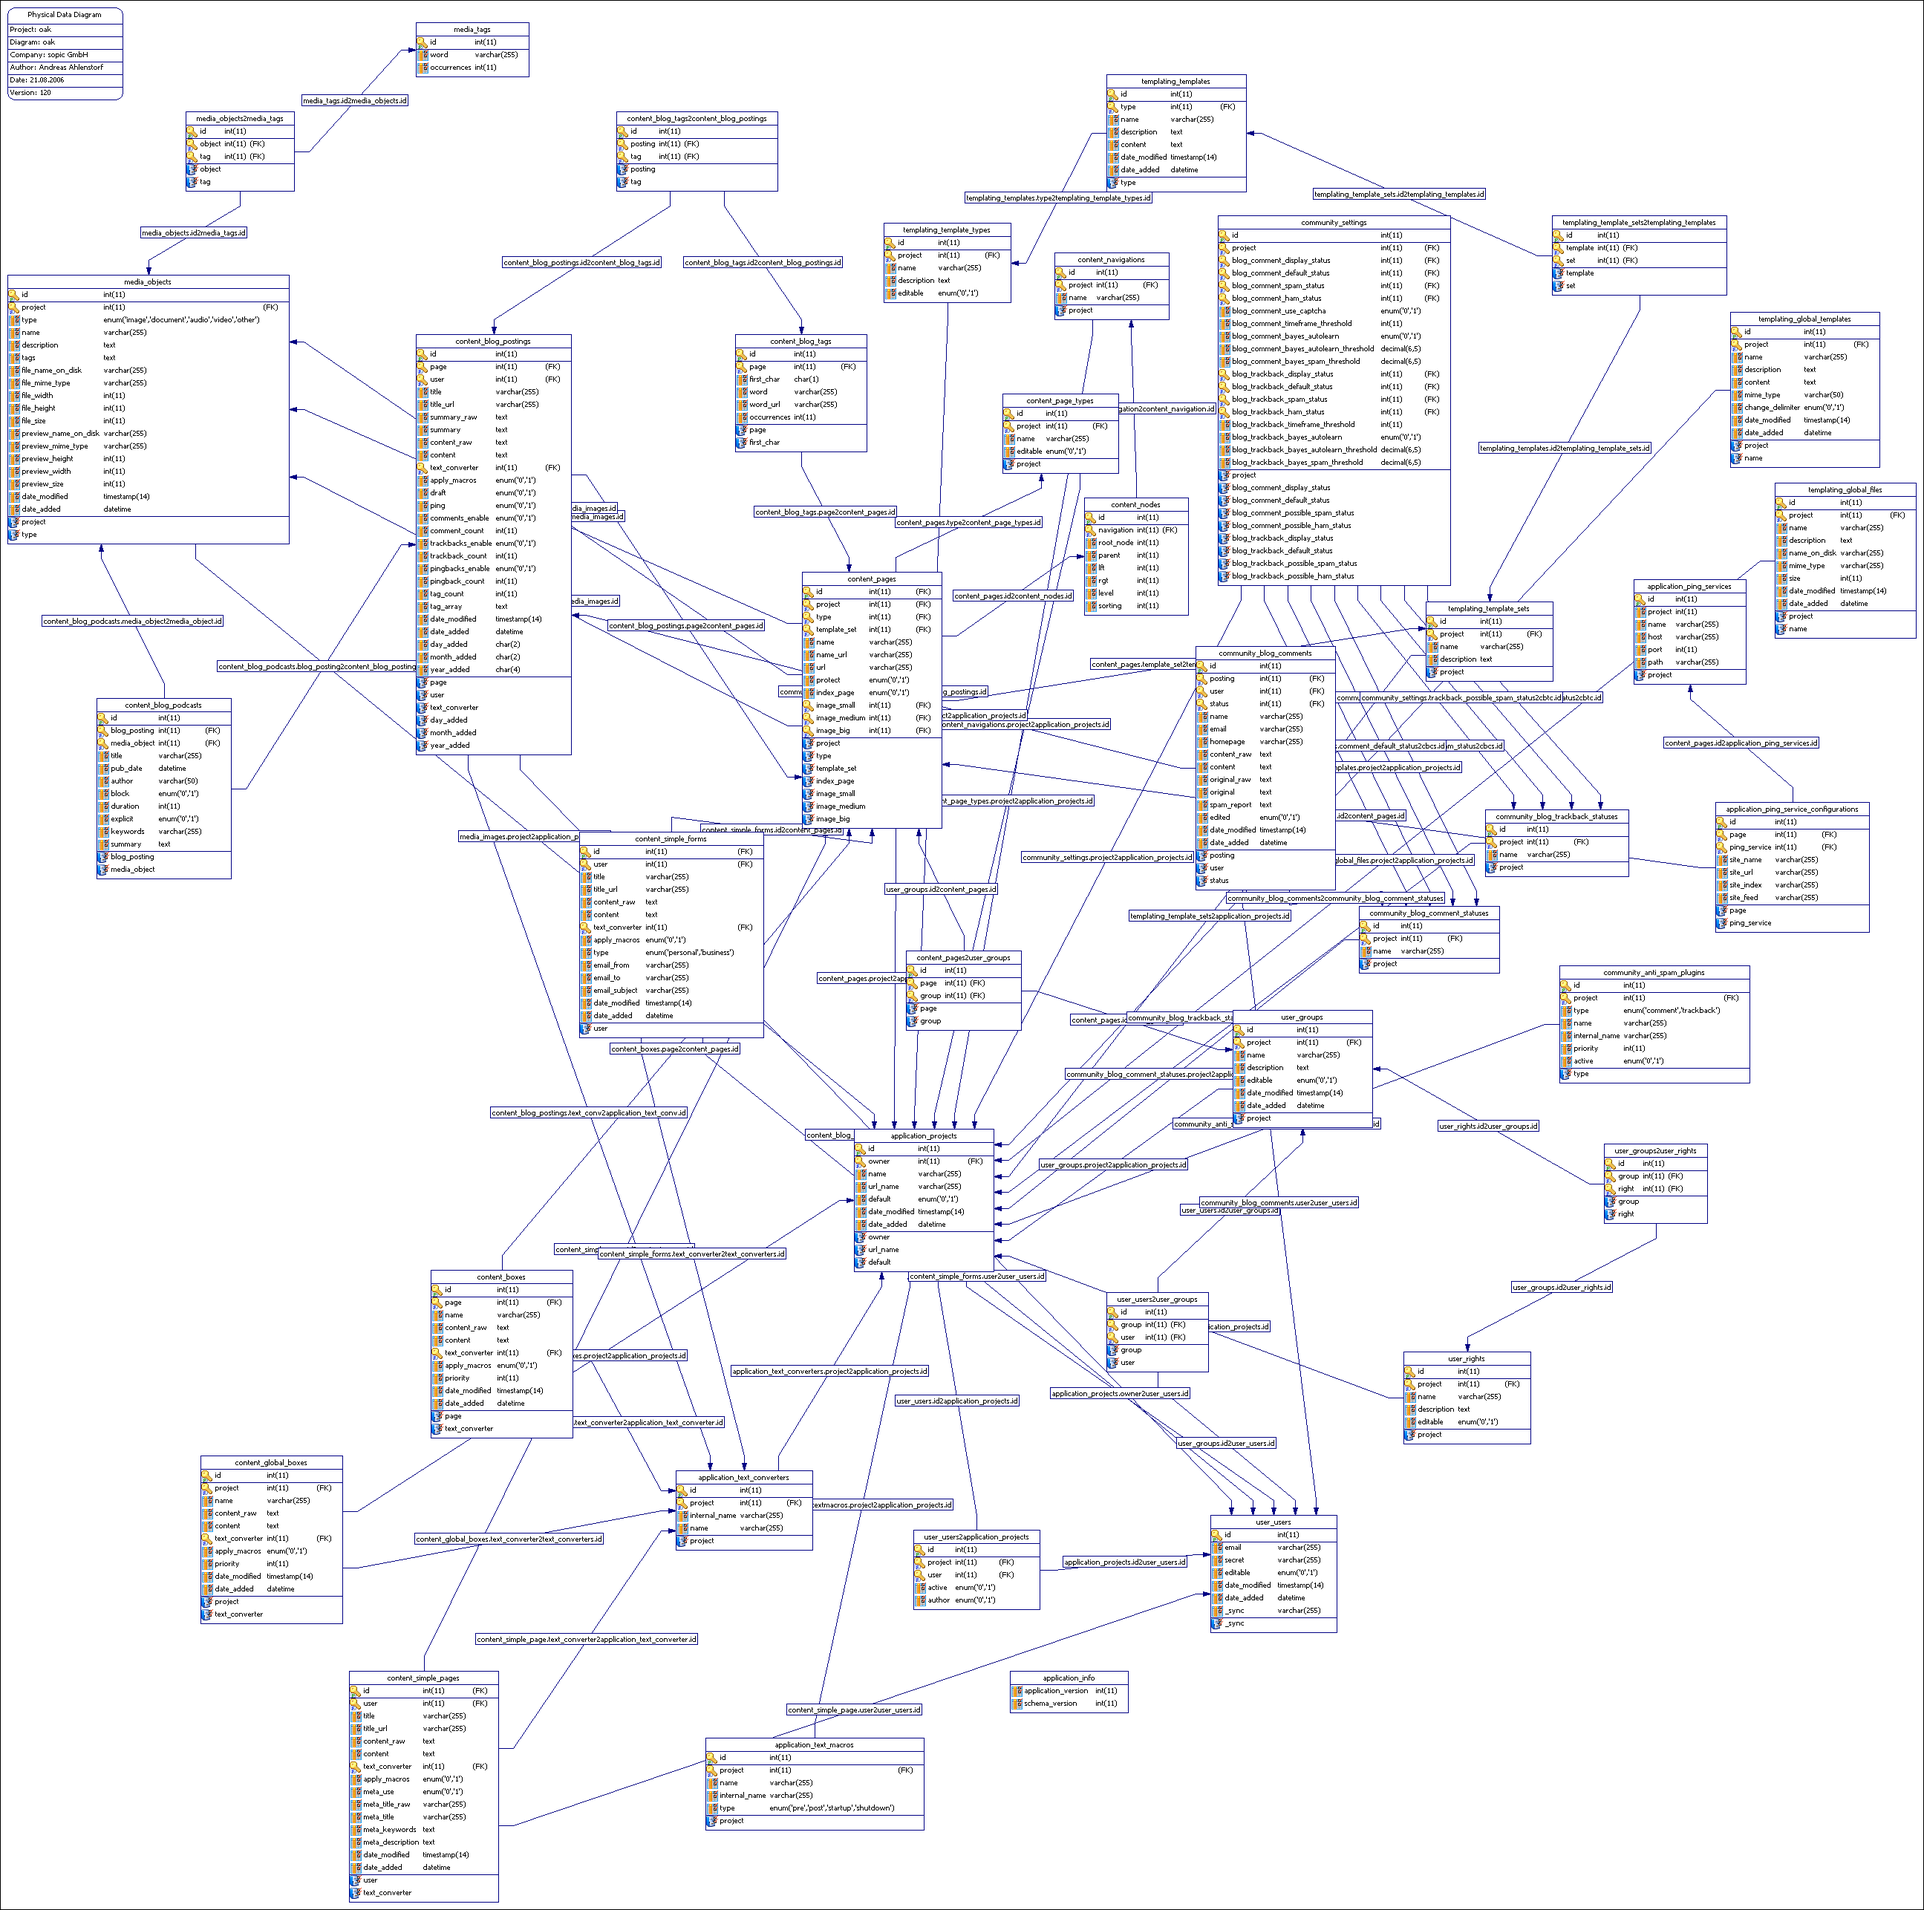
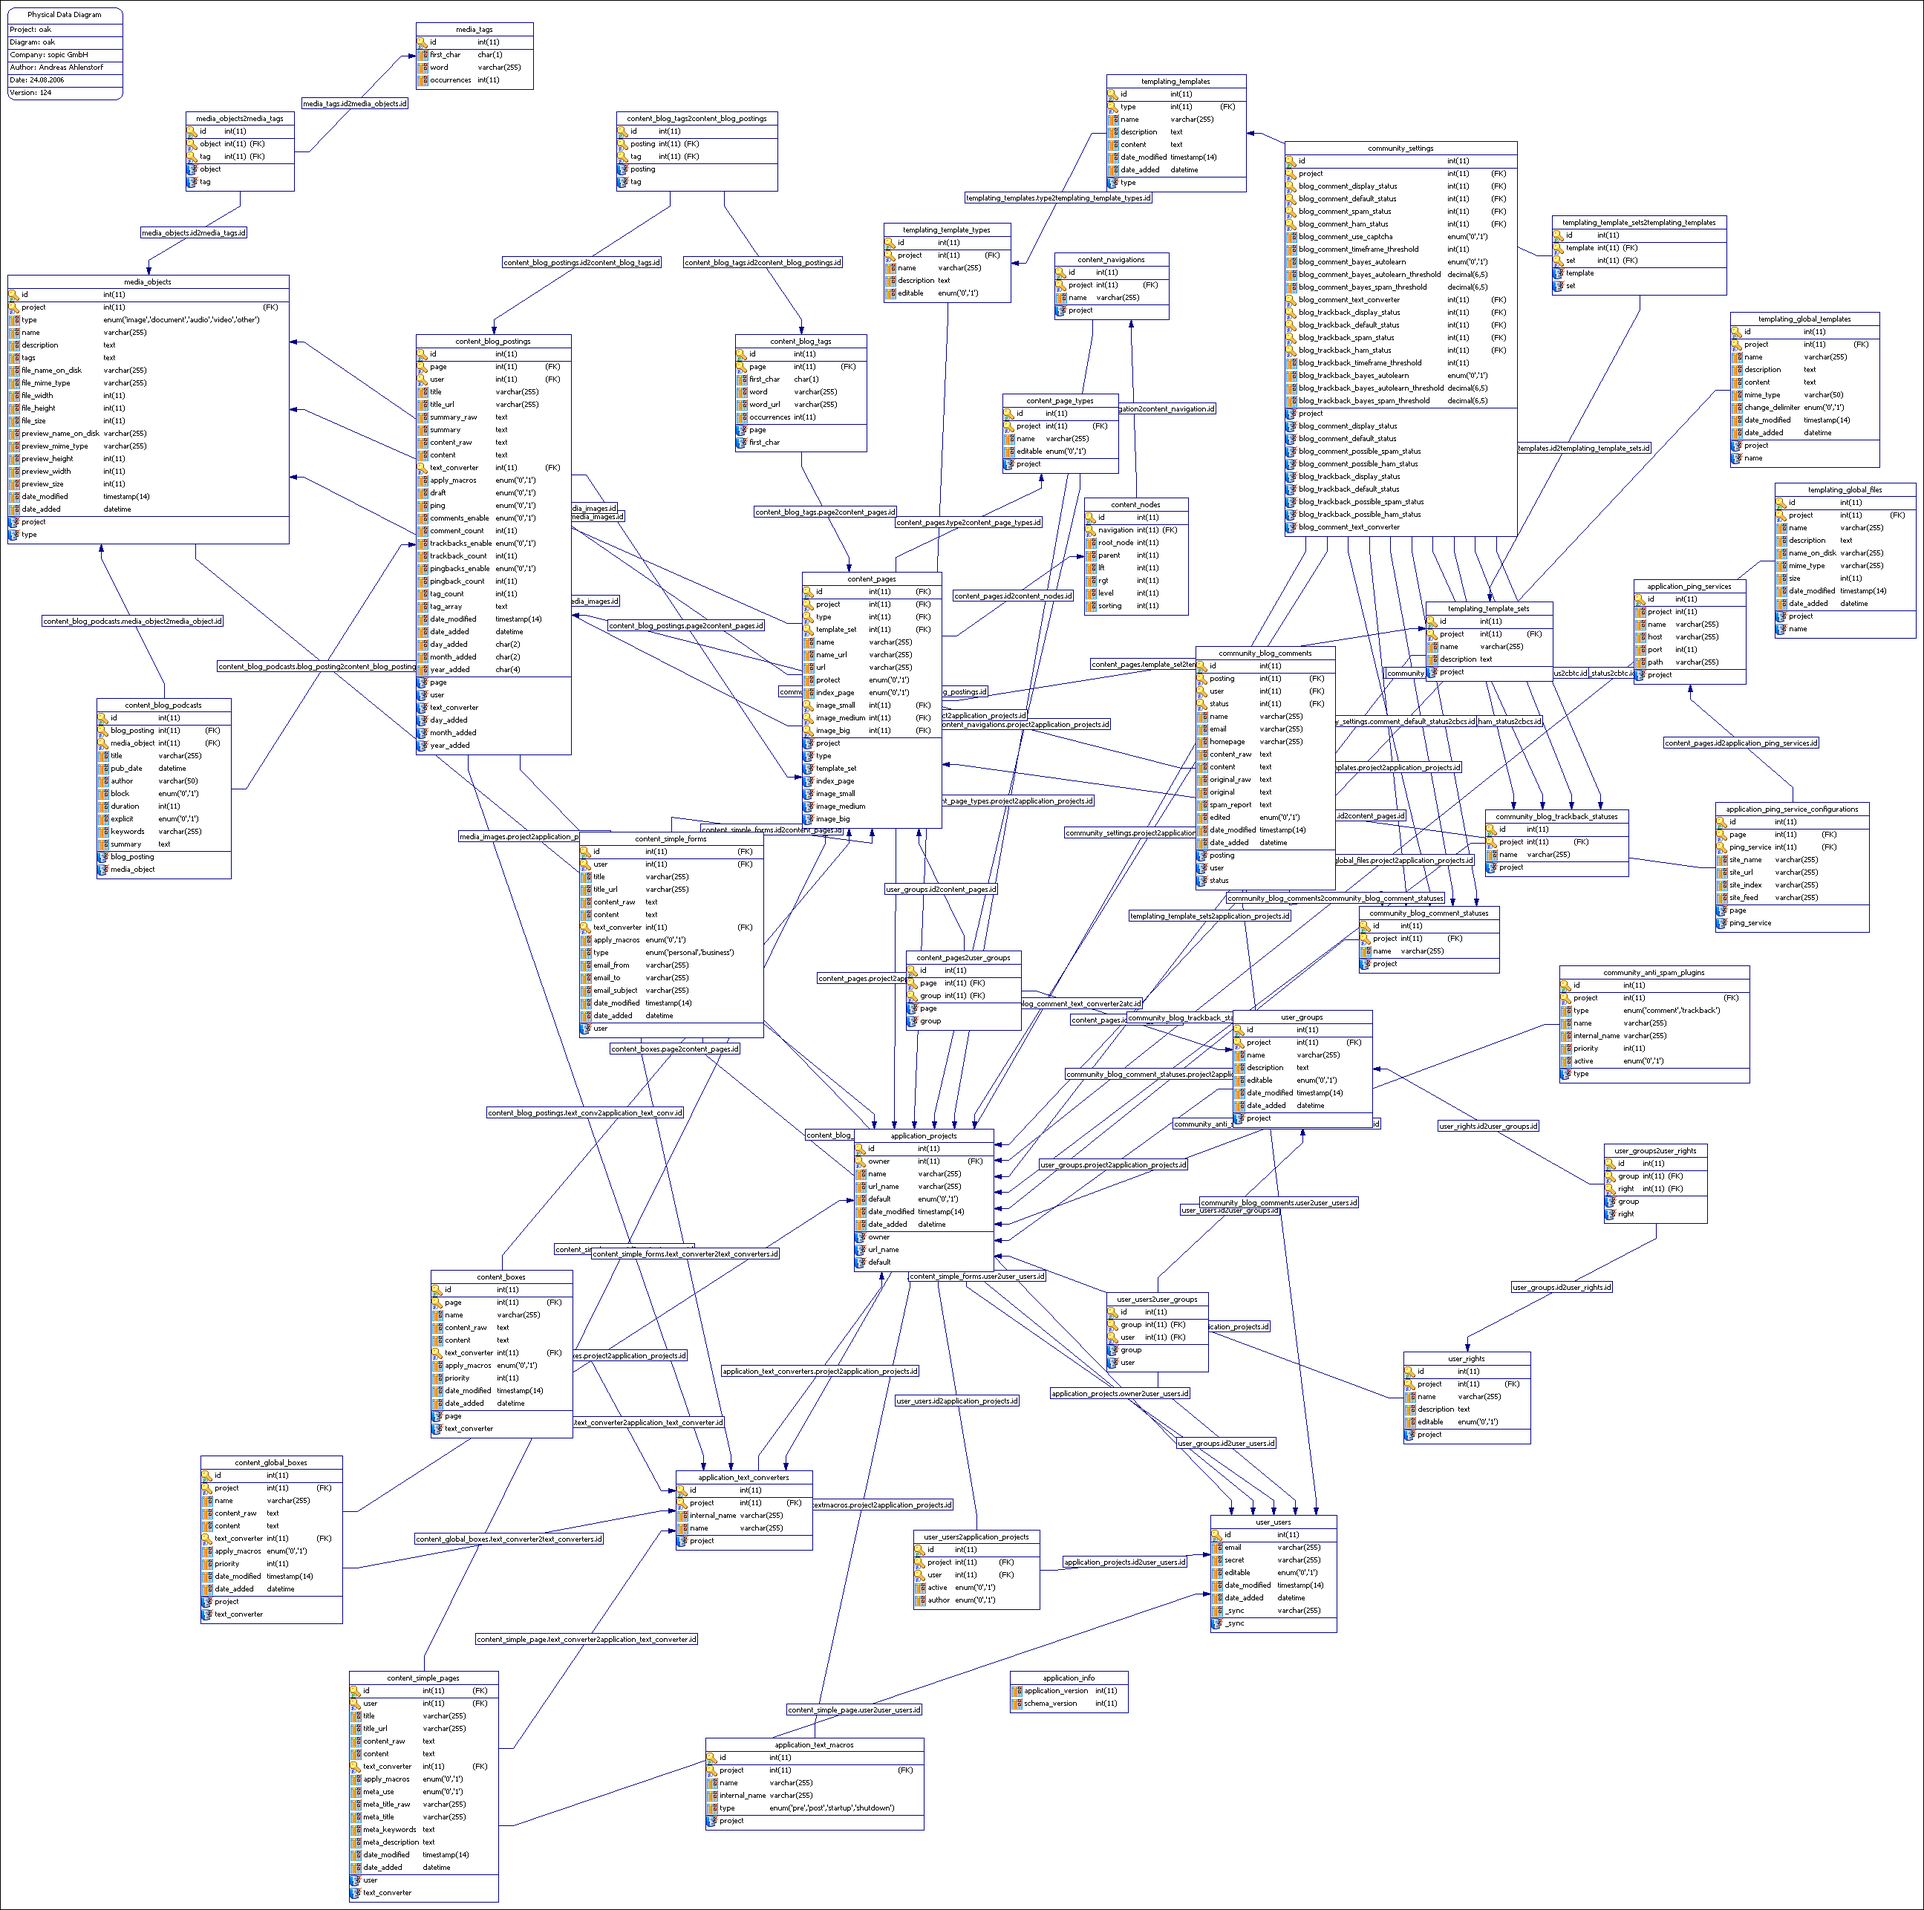
* Media tables prepared for media manager  * Settings extended with text converter selection for blog comments

diff --git a/oak/admin/smarty/templates/community/settings.html b/oak/admin/smarty/templates/community/settings.html
@@ -122,6 +122,9 @@ var selection = '{$session.selection}';
 <label class="cont" for="settings_blog_comment_bayes_spam_threshold"><span class="bez260">{$form.blog_comment_bayes_spam_threshold.label}<span class="iHelp"><a href="#" title="{i18n Show help on this topic}"><img src="../static/img/icons/help.gif" alt="" /></a></span></span>
 {$form.blog_comment_bayes_spam_threshold.html}</label>
 
+<label class="cont" for="settings_blog_comment_text_converter"><span class="bez260">{$form.blog_comment_text_converter.label}<span class="iHelp"><a href="#" title="{i18n Show help on this topic}"><img src="../static/img/icons/help.gif" alt="" /></a></span></span>
+{$form.blog_comment_text_converter.html}</label>
+
 </fieldset>
 
 <fieldset class="within">

diff --git a/oak/admin/smarty/templates/error.html b/oak/admin/smarty/templates/error.html
@@ -1,12 +1,3 @@
-{include file="header.html"}
-
-<div id="main">
-<h1>{i18n Error}</h1>
-</div>
-<div id="main">
-
-<div class="lFloat">
-
 <p>{i18n An error occured on file} {$file} {i18n at line} {$line}</p>
 
 <p>{i18n with the following message}: {$message}</p>
@@ -14,8 +5,3 @@
 {i18n Trace}:<br />
 {$trace_string|nl2br}
 </p>
-
-</div>
-
-<!-- main --></div>
-{include file="footer.html"}

diff --git a/oak/admin/community/settings.php b/oak/admin/community/settings.php
@@ -79,6 +79,10 @@ try {
 	// load Community_BlogCommentStatus
 	$BLOGCOMMENTSTATUS = load('Community:BlogCommentStatus');
 	
+	// load Application_TextConverter
+	/* @var $TEXTCONVERTER Application_Textconverter */
+	$TEXTCONVERTER = load('Application:TextConverter');
+	
 	// init user and project
 	if (!$LOGIN->loggedIntoAdmin()) {
 		header("Location: ../login.php");
@@ -102,6 +106,14 @@ try {
 	$blog_trackback_statuses = array(
 		'' => gettext('None')	
 	);
+	
+	// prepare text converters array
+	$text_converters = array(
+		'' => gettext('None')
+	);
+	foreach ($TEXTCONVERTER->selectTextConverters() as $_converter) {
+		$text_converters[(int)$_converter['id']] = htmlspecialchars($_converter['name']);
+	}
 	
 	// start new HTML_QuickForm
 	$FORM = $BASE->utility->loadQuickForm('settings', 'post');
@@ -183,6 +195,14 @@ try {
 		gettext('Please enter a comment bayes spam threshold'), 'required');
 	$FORM->addRule('blog_comment_bayes_spam_threshold',
 		gettext('Please enter a numeric comment bayes spam threshold'), 'numeric');
+	
+	// select for comment text converter
+	$FORM->addElement('select', 'blog_comment_text_converter', gettext('Text converter to apply'),
+		$text_converters, array('id' => 'settings_blog_comment_text_converter'));
+	$FORM->applyFilter('blog_comment_text_converter', 'trim');
+	$FORM->applyFilter('blog_comment_text_converter', 'strip_tags');
+	$FORM->addRule('blog_comment_text_converter', gettext('Chosen blog comment text converter is out of range'),
+		'in_array_keys', $text_converters);
 	
 	// select for trackback display status
 	$FORM->addElement('select', 'blog_trackback_display_status', gettext('Display status'),
@@ -269,6 +289,7 @@ try {
 		'blog_comment_bayes_autolearn' => Base_Cnc::ifsetor($settings['blog_comment_bayes_autolearn'], null),
 		'blog_comment_bayes_autolearn_threshold' => Base_Cnc::ifsetor($settings['blog_comment_bayes_autolearn_threshold'], null),
 		'blog_comment_bayes_spam_threshold' => Base_Cnc::ifsetor($settings['blog_comment_bayes_spam_threshold'], null),
+		'blog_comment_text_converter' => Base_Cnc::ifsetor($settings['blog_comment_text_converter'], null),
 		'blog_trackback_display_status' => Base_Cnc::ifsetor($settings['blog_trackback_display_status'], null),
 		'blog_trackback_default_status' => Base_Cnc::ifsetor($settings['blog_trackback_default_status'], null),
 		'blog_trackback_spam_status' => Base_Cnc::ifsetor($settings['blog_trackback_spam_status'], null),
@@ -346,6 +367,7 @@ try {
 		$sqlData['blog_comment_bayes_autolearn'] = $FORM->exportValue('blog_comment_bayes_autolearn');
 		$sqlData['blog_comment_bayes_autolearn_threshold'] = $FORM->exportValue('blog_comment_bayes_autolearn_threshold');
 		$sqlData['blog_comment_bayes_spam_threshold'] = $FORM->exportValue('blog_comment_bayes_spam_threshold');
+		$sqlData['blog_comment_text_converter'] = $FORM->exportValue('blog_comment_text_converter');
 		$sqlData['blog_trackback_display_status'] = $FORM->exportValue('blog_trackback_display_status');
 		$sqlData['blog_trackback_default_status'] = $FORM->exportValue('blog_trackback_default_status');
 		$sqlData['blog_trackback_spam_status'] = $FORM->exportValue('blog_trackback_spam_status');

diff --git a/oak/core/conf/table_aliases.inc.php b/oak/core/conf/table_aliases.inc.php
@@ -59,11 +59,9 @@ define("OAK_DB_CONTENT_SIMPLE_FORMS", "content_simple_forms");
 define("OAK_DB_CONTENT_SIMPLE_PAGES", "content_simple_pages");
 
 // media table aliases
-define("OAK_DB_MEDIA_DOCUMENTS", "media_documents");
-define("OAK_DB_MEDIA_DOCUMENT_CATEGORIES", "media_document_categories");
-define("OAK_DB_MEDIA_IMAGES", "media_images");
-define("OAK_DB_MEDIA_IMAGE_CATEGORIES", "media_image_categories");
-define("OAK_DB_MEDIA_IMAGE_THUMBNAILS", "media_image_thumbnails");
+define("OAK_DB_MEDIA_OBJECTS", "media_objects");
+define("OAK_DB_MEDIA_OBJECTS2MEDIA_TAGS", "media_objects2media_tags");
+define("OAK_DB_MEDIA_TAGS", "media_tags");
 
 // templating table aliases
 define("OAK_DB_TEMPLATING_GLOBAL_FILES", "templating_global_files");

diff --git a/oak/core/community_classes/settings.class.php b/oak/core/community_classes/settings.class.php
@@ -108,6 +108,7 @@ public function getSettings ()
 			`community_settings`.`blog_comment_bayes_autolearn`,
 			`community_settings`.`blog_comment_bayes_autolearn_threshold`,
 			`community_settings`.`blog_comment_bayes_spam_threshold`,
+			`community_settings`.`blog_comment_text_converter`,
 			`community_settings`.`blog_trackback_display_status`,
 			`community_settings`.`blog_trackback_default_status`,
 			`community_settings`.`blog_trackback_spam_status`,
